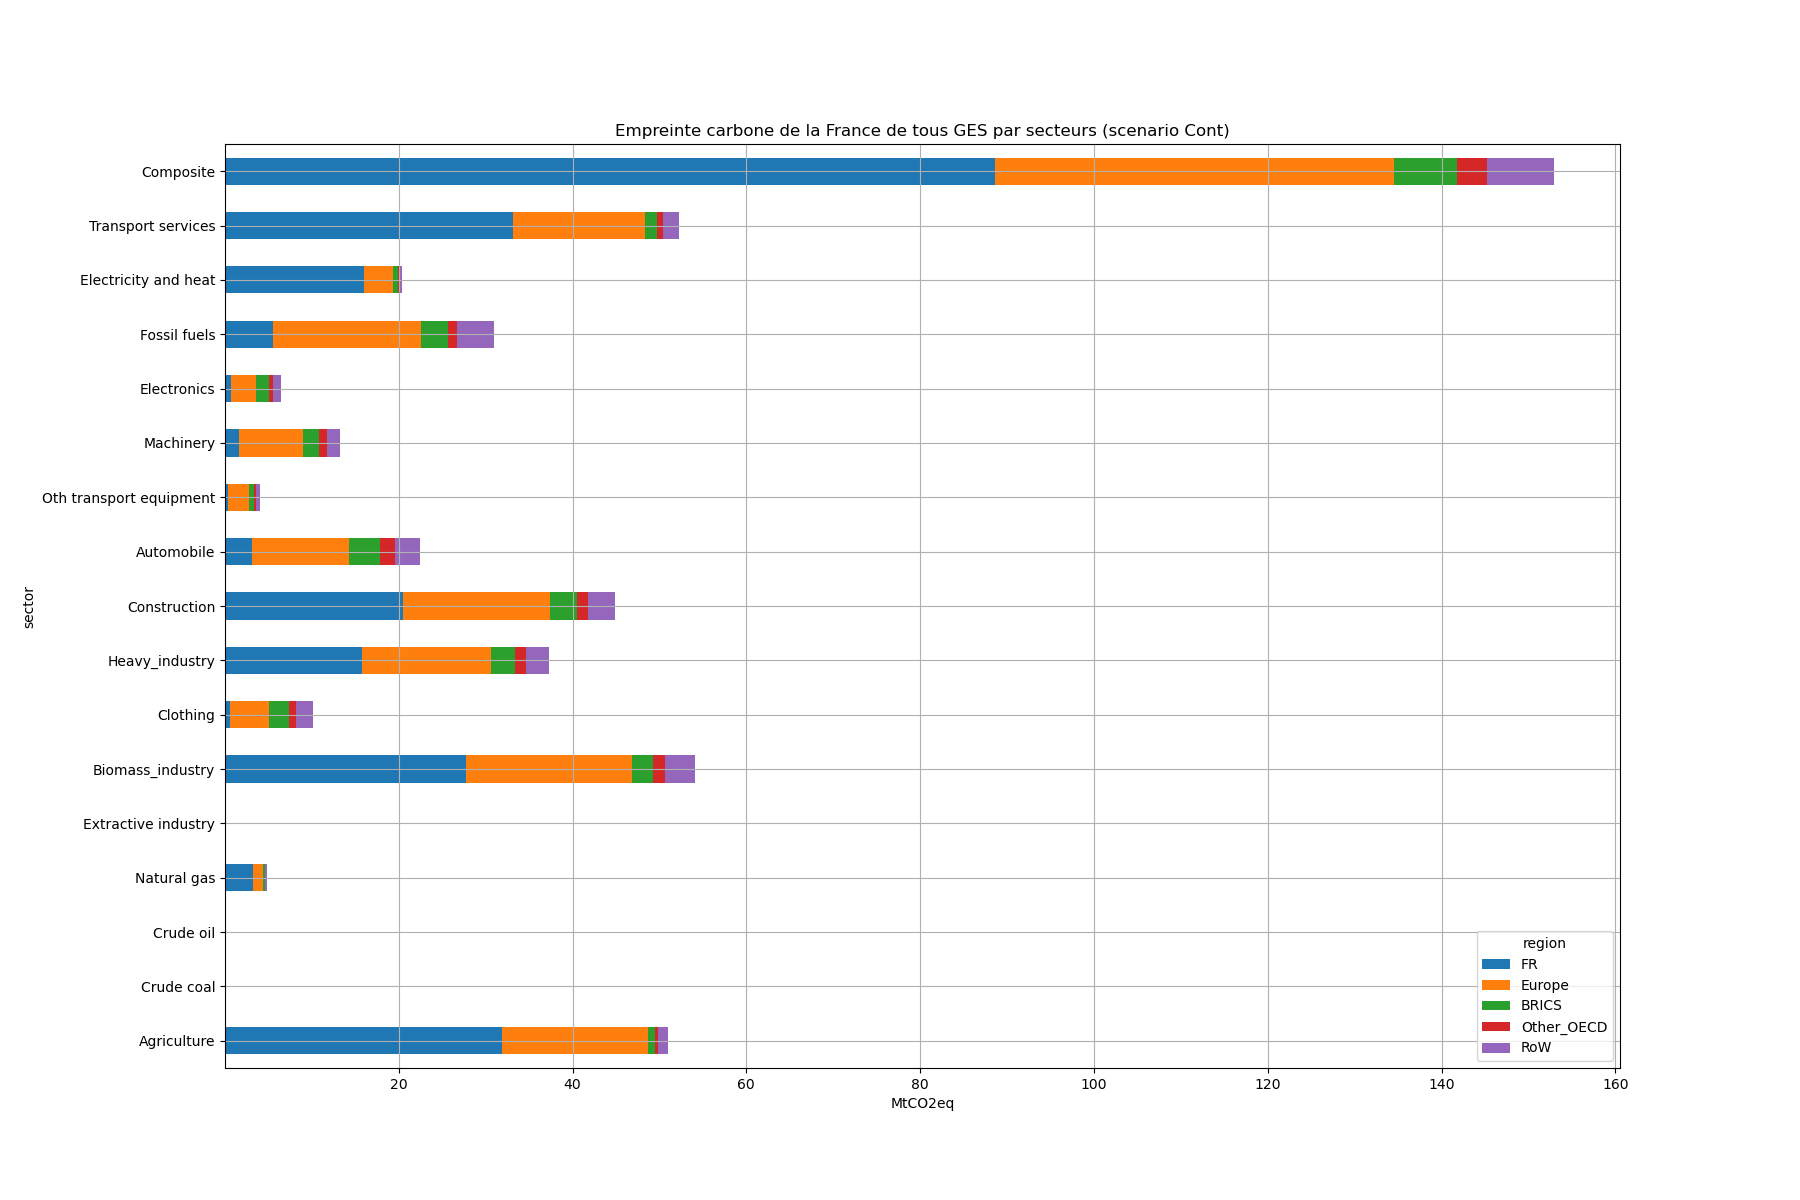
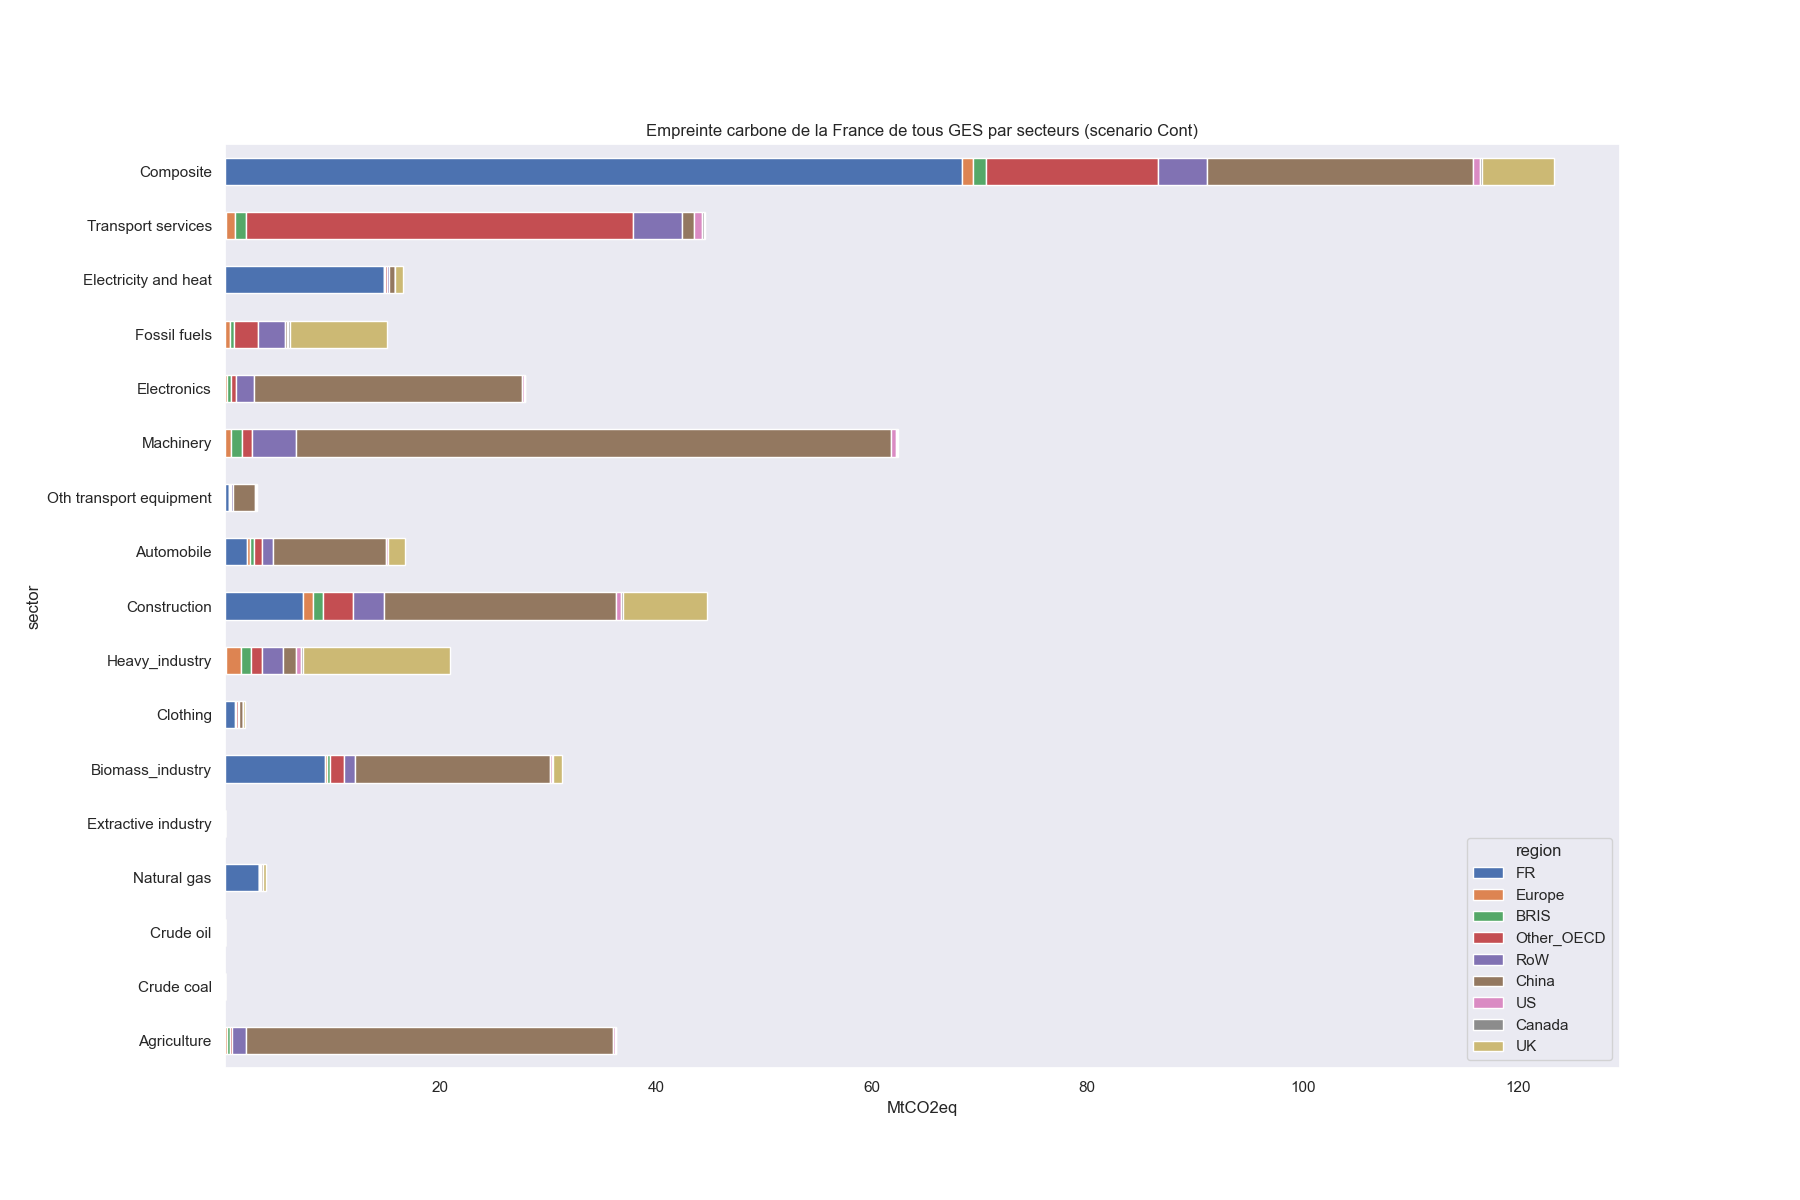
Ajout delocalisation, moins de plots, autre aggregation spatiale

diff --git a/main.py b/main.py
@@ -73,7 +73,7 @@ if not os.path.isfile(data_dir / file_name):
 
 # import or build calibration data
 if calib:
-
+    print("Début calib")
     # import exiobase data
     reference = pymrio.parse_exiobase3(
         data_dir / file_name
@@ -111,6 +111,7 @@ if calib:
     reference.save_all(
         data_dir / ('reference' + '_' + concat_settings)
     )
+    print("Fin calib")
 
 else:
 
@@ -137,6 +138,7 @@ reference.ghg_emissions_desag = Tools.recal_extensions_per_region(
 # init counterfactual(s)
 counterfactual = reference.copy()
 counterfactual.remove_extension('ghg_emissions_desag')
+
 # read param sets to shock reference system
 ## ToDo
 nbsect = len(list(reference.get_sectors()))
@@ -154,36 +156,44 @@ def get_least(sector,reloc):
 	return regs[ind]
 
 #construction du scénario least intense
-def scenar_best(reloc=False):
-	sectors_list = list(reference.get_sectors())
-	sectors_gl = []
-	moves_gl = []
-	for sector in sectors_list:
-		best = get_least(sector,reloc)
-		for i in range(3):
-			sectors_gl.append(sector)
-		for reg in list(reference.get_regions()):
-			if reg!=best and reg!='FR':
-				moves_gl.append([reg,best])
-	quantities = [1 for i in range(len(sectors_gl))]
-	return sectors_gl, moves_gl, quantities
+def scenar_best(reloc=False,deloc=False):
+    sectors_list = list(reference.get_sectors())
+    sectors_gl = []
+    moves_gl = []
+    for sector in sectors_list:
+        best = get_least(sector,reloc)
+        if deloc:
+            for i in range(len(list(reference.get_regions()))-1):
+                sectors_gl.append(sector)
+        else:
+            for i in range(len(list(reference.get_regions()))-2):
+                sectors_gl.append(sector)
+        for reg in list(reference.get_regions()):
+            if deloc:
+                if reg!=best:
+                    moves_gl.append([reg,best])
+            else:
+                if reg!=best :
+                    if reg!='FR':
+                        moves_gl.append([reg,best])
+    quantities = [1 for i in range(len(sectors_gl))]
+    return sectors_gl, moves_gl, quantities
 
 def scenar_pref_europe():
-	sectors = list(reference.get_sectors())+list(reference.get_sectors())+list(reference.get_sectors())
-	quantities = [1 for i in range(len(sectors)) ]
-	moves =[]
-	for i in range(len(quantities)):
-		if i<nbsect:
-			moves.append(['BRICS','Europe'])
-		if i>= nbsect and i<2*nbsect:
-			moves.append(['RoW','Europe'])
-		if i>= 2*nbsect:
-			moves.append(['Other_OECD','Europe'])
-	return sectors,moves,quantities
+    nbreg = len(list(reference.get_regions()))
+    sectors = (nbreg-1)*list(reference.get_sectors())
+    quantities = [1 for i in range(len(sectors)) ]
+    moves =[]
+    for i in range(nbreg):
+        reg = reference.get_regions()[i]
+        if reg != 'Europe':
+            for j in range(len(list(reference.get_sectors()))):
+                moves.append([reg,'Europe'])
+    return sectors,moves,quantities
 
 # build conterfactual(s) using param sets
 ## ToDo
-sectors,moves,quantities = scenar_best(reloc=True)
+sectors,moves,quantities = scenar_best(reloc=True,deloc=True)
 for i in range(len(quantities)):
     counterfactual.Z,counterfactual.Y = Tools.shock(list(reference.get_sectors()),counterfactual.Z,counterfactual.Y,moves[i][0],
     moves[i][1],sectors[i],quantities[i])
@@ -242,29 +252,28 @@ def visualisation(scenario,scenario_name,type_emissions='D_cba',saveghg=False):
     pour_plot.transpose().plot.bar(stacked=True)
     plt.title(dict_plot_title[type_emissions]+" (scenario "+scenario_name+")")
     plt.ylabel("MtCO2eq")
-    if saveghg :
-        plt.savefig("figures/"+scenario_name+dict_fig_name[type_emissions]+".png")
+    plt.savefig("figures/"+scenario_name+dict_fig_name[type_emissions]+".png")
     plt.close()
-    for ghg in ghg_list:
-        df = pd.DataFrame(None, index = scenario.get_sectors(), columns = scenario.get_regions())
-        for reg in scenario.get_regions():
-            df.loc[:,reg]=emissions_df.loc[(reg,ghg)]
-        ax=df.plot.barh(stacked=True, figsize=(18,12))
-        plt.grid()
-        plt.xlabel("MtCO2eq")
-        plt.title(dict_plot_title[type_emissions]+" de "+ghg+" par secteurs (scenario "+scenario_name+")")
-        if saveghg :
+
+    if saveghg :
+        for ghg in ghg_list:
+            df = pd.DataFrame(None, index = scenario.get_sectors(), columns = scenario.get_regions())
+            for reg in scenario.get_regions():
+                df.loc[:,reg]=emissions_df.loc[(reg,ghg)]
+            ax=df.plot.barh(stacked=True, figsize=(18,12))
+            plt.grid()
+            plt.xlabel("MtCO2eq")
+            plt.title(dict_plot_title[type_emissions]+" de "+ghg+" par secteurs (scenario "+scenario_name+")")
             plt.savefig('figures/'+scenario_name+'_french_'+ghg+dict_fig_name[type_emissions]+'_provenance_sectors')
-        plt.close()
-   
-        ax=emissions_df.sum(level=0).T.plot.barh(stacked=True, figsize=(18,12))
-        plt.grid()
-        plt.xlabel("MtCO2eq")
-        plt.title(dict_plot_title[type_emissions]+" de tous GES par secteurs (scenario "+scenario_name+")")
-        if saveghg :
-            plt.savefig('figures/'+scenario_name+dict_fig_name[type_emissions]+'_provenance_sectors')
-        #plt.show()
-        plt.close()
+            plt.close()
+    
+    ax=emissions_df.sum(level=0).T.plot.barh(stacked=True, figsize=(18,12))
+    plt.grid()
+    plt.xlabel("MtCO2eq")
+    plt.title(dict_plot_title[type_emissions]+" de tous GES par secteurs (scenario "+scenario_name+")")
+    plt.savefig('figures/'+scenario_name+dict_fig_name[type_emissions]+'_provenance_sectors')
+    #plt.show()
+    plt.close()
 
 ###########################
 # VISUALIZE
@@ -284,12 +293,12 @@ def heat_S():
 	sns.heatmap(df_n,cmap='coolwarm', annot=df_n.round(1), linewidths=1, linecolor='black').set_title("Intensité d'émissions")
 	plt.savefig('figures/heatmap_intensite')
 	plt.show()
-
+heat_S()
 # reference analysis
 ## ToDo
-#for type in ['D_cba', 'D_pba', 'D_imp', 'D_exp'] :
-    #visualisation(reference,"Ref",type,False)
-    #visualisation(counterfactual,"Cont",type,False)
+for type in ['D_cba', 'D_pba', 'D_imp', 'D_exp'] :
+    visualisation(reference,"Ref",type,saveghg=False)
+    visualisation(counterfactual,"Cont",type,saveghg=False)
 # whole static comparative analysis
 ## ToDo
 
@@ -313,4 +322,3 @@ def compa_monetaire(ref,contr):
     return counterfactual.x - reference.x
 print("Variation de richesse de la transformation")
 print(compa_monetaire(reference,counterfactual).sum(level=0).sum())
-
